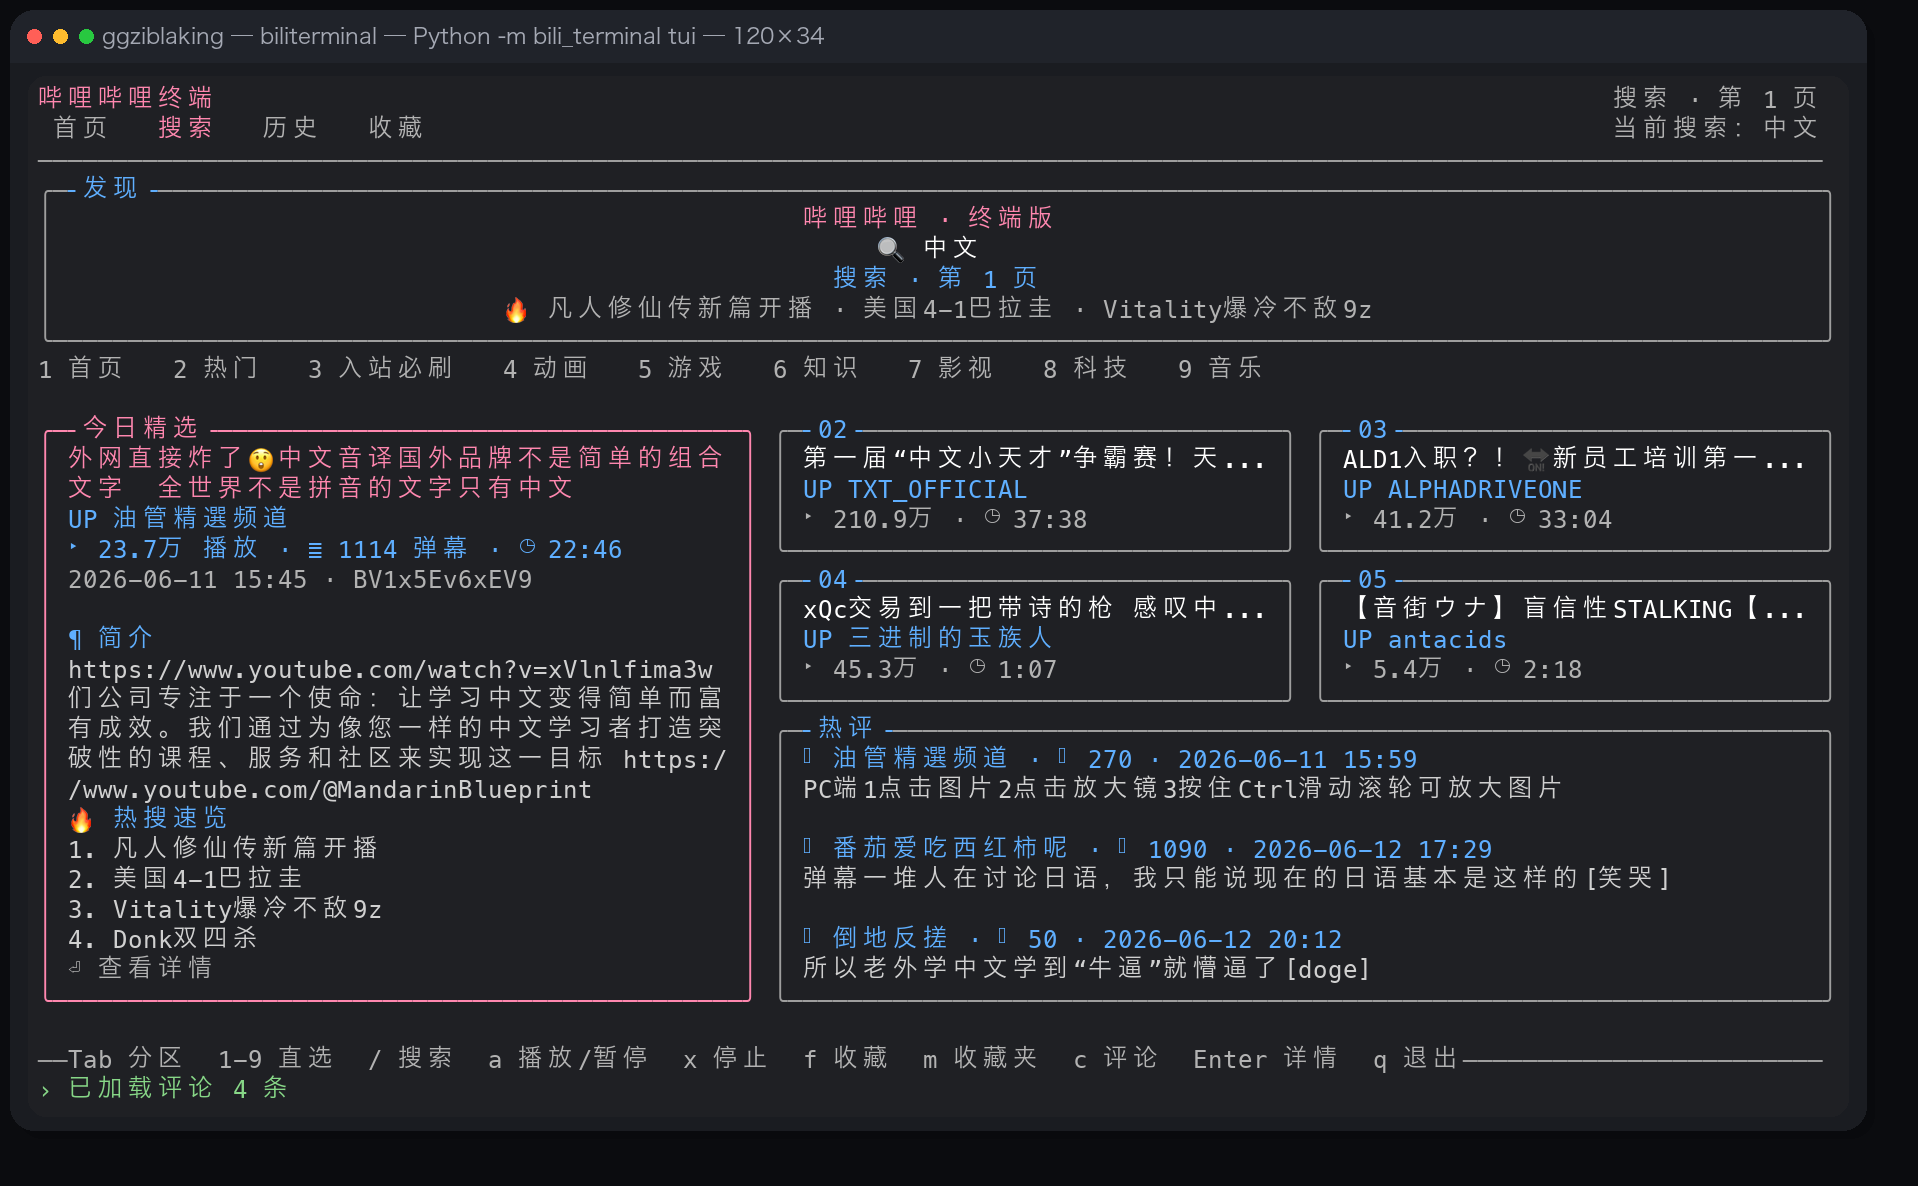
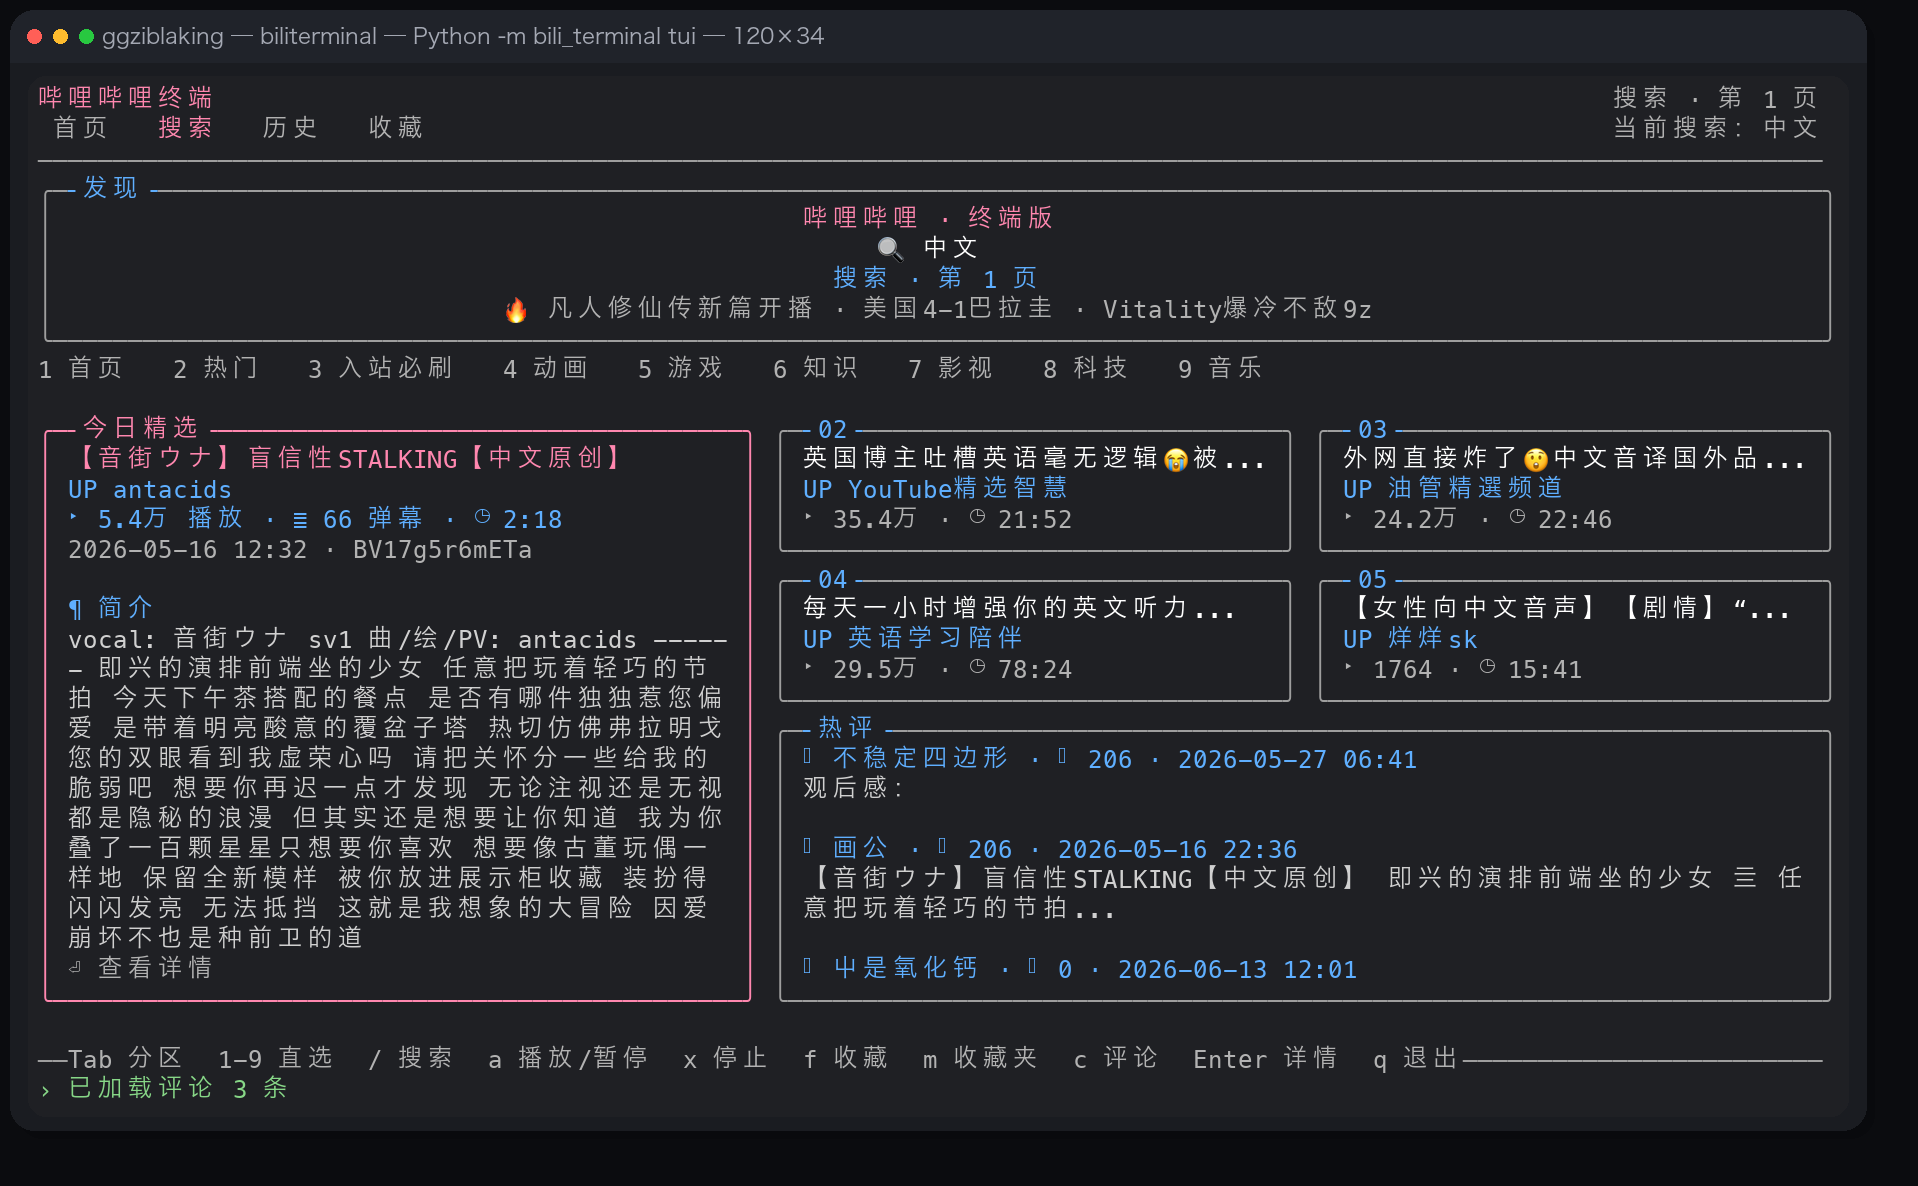
用 curses ACS 框线彻底修复 Ghostty 下框线错位/散开
根因（经多方调研确认，high confidence）：框线字符 ─│╭╮╰╯ 的
east_asian_width 全是 Ambiguous，Ghostty 默认 grapheme-width-method
=unicode 把它们按 2 格渲染，而 curses 内部用 wcwidth 按 1 格定位光标，
一整条横线在 Ghostty 里宽度翻倍把整个框撑散。自带终端用 wcwidth(=1)
与 curses 一致故正常。这是终端侧渲染策略差异，程序内改 locale/wcwidth
无法解决。

修复：draw_box 及所有分隔线改用 curses ACS 备用字符集
（ACS_ULCORNER/HLINE/VLINE 等 + hline()/vline()）。ACS 走 VT100
ESC(0 路径，终端按内建图形字符渲染、必占 1 格，完全绕过 Unicode 歧义
宽度，对所有终端都正确，无需检测终端或改用户配置。代价是直角而非圆角。

截图工具适配：tmux 文本 capture 读不到 ACS（显示成 q/x/l 字母），故加
BILITERMINAL_UNICODE_BORDERS 开关，让截图生成器改用 Unicode 圆角框线
（其自带解析器按单宽渲染正常），生成器已设置该环境变量。

测试 fake 屏幕补充 addch/hline/vline 与 ACS 常量 patch。

diff --git a/bili_terminal/tests/test_bilibili_cli.py b/bili_terminal/tests/test_bilibili_cli.py
@@ -1260,6 +1260,8 @@ class TUIStateTests(unittest.TestCase):
             self.assertEqual(tui.mode_token(), "收藏夹")
 
     def test_draw_featured_card_compact_marks_favorite(self) -> None:
+        import curses
+
         class FakeScreen:
             def __init__(self) -> None:
                 self.lines: list[str] = []
@@ -1268,6 +1270,15 @@ class TUIStateTests(unittest.TestCase):
                 return self
 
             def box(self) -> None:
+                return None
+
+            def addch(self, *_args, **_kwargs) -> None:
+                return None
+
+            def hline(self, *_args, **_kwargs) -> None:
+                return None
+
+            def vline(self, *_args, **_kwargs) -> None:
                 return None
 
             def addnstr(self, _y: int, _x: int, text: str, *_args) -> None:
@@ -1282,7 +1293,13 @@ class TUIStateTests(unittest.TestCase):
             store.add_favorite(item)
             tui = cli.BilibiliTUI(cli.BilibiliClient(), store)
             fake = FakeScreen()
-            tui.draw_featured_card(fake, 0, 0, 8, 40, item, selected=False)
+            with mock.patch.object(curses, "ACS_HLINE", "-", create=True), \
+                 mock.patch.object(curses, "ACS_VLINE", "|", create=True), \
+                 mock.patch.object(curses, "ACS_ULCORNER", "+", create=True), \
+                 mock.patch.object(curses, "ACS_URCORNER", "+", create=True), \
+                 mock.patch.object(curses, "ACS_LLCORNER", "+", create=True), \
+                 mock.patch.object(curses, "ACS_LRCORNER", "+", create=True):
+                tui.draw_featured_card(fake, 0, 0, 8, 40, item, selected=False)
             rendered = " ".join(fake.lines)
             self.assertIn("✦ 收藏卡片", rendered)
 
@@ -1317,9 +1334,20 @@ class TUIStateTests(unittest.TestCase):
             tui.draw_split_view.assert_not_called()
 
     def test_draw_favorites_list_renders_empty_hint(self) -> None:
+        import curses
+
         class FakeScreen:
             def __init__(self) -> None:
                 self.lines: list[str] = []
+
+            def addch(self, *_args, **_kwargs) -> None:
+                return None
+
+            def hline(self, *_args, **_kwargs) -> None:
+                return None
+
+            def vline(self, *_args, **_kwargs) -> None:
+                return None
 
             def addnstr(self, _y: int, _x: int, text: str, *_args) -> None:
                 self.lines.append(text)
@@ -1328,7 +1356,13 @@ class TUIStateTests(unittest.TestCase):
             store = cli.HistoryStore(path=f"{temp_dir}/history.json")
             tui = cli.BilibiliTUI(cli.BilibiliClient(), store)
             fake = FakeScreen()
-            tui.draw_favorites_list(fake, 0, 0, 10, 42)
+            with mock.patch.object(curses, "ACS_HLINE", "-", create=True), \
+                 mock.patch.object(curses, "ACS_VLINE", "|", create=True), \
+                 mock.patch.object(curses, "ACS_ULCORNER", "+", create=True), \
+                 mock.patch.object(curses, "ACS_URCORNER", "+", create=True), \
+                 mock.patch.object(curses, "ACS_LLCORNER", "+", create=True), \
+                 mock.patch.object(curses, "ACS_LRCORNER", "+", create=True):
+                tui.draw_favorites_list(fake, 0, 0, 10, 42)
             rendered = " ".join(fake.lines)
             self.assertIn("收藏夹还是空的", rendered)
             self.assertIn("按 f", rendered)
@@ -1362,6 +1396,8 @@ class TUIStateTests(unittest.TestCase):
             tui.draw_comments_panel.assert_called_once()
 
     def test_draw_comments_panel_renders_error_hint(self) -> None:
+        import curses
+
         class FakeWindow:
             def __init__(self) -> None:
                 self.lines: list[str] = []
@@ -1370,6 +1406,15 @@ class TUIStateTests(unittest.TestCase):
                 return self
 
             def box(self) -> None:
+                return None
+
+            def addch(self, *_args, **_kwargs) -> None:
+                return None
+
+            def hline(self, *_args, **_kwargs) -> None:
+                return None
+
+            def vline(self, *_args, **_kwargs) -> None:
                 return None
 
             def addnstr(self, _y: int, _x: int, text: str, *_args) -> None:
@@ -1382,12 +1427,20 @@ class TUIStateTests(unittest.TestCase):
             tui.items = [item]
             tui.comment_errors[item.bvid or str(item.aid)] = "评论接口受限，请按 o 在浏览器中查看"
             fake = FakeWindow()
-            tui.draw_comments_panel(fake, 0, 0, 8, 42)
+            with mock.patch.object(curses, "ACS_HLINE", "-", create=True), \
+                 mock.patch.object(curses, "ACS_VLINE", "|", create=True), \
+                 mock.patch.object(curses, "ACS_ULCORNER", "+", create=True), \
+                 mock.patch.object(curses, "ACS_URCORNER", "+", create=True), \
+                 mock.patch.object(curses, "ACS_LLCORNER", "+", create=True), \
+                 mock.patch.object(curses, "ACS_LRCORNER", "+", create=True):
+                tui.draw_comments_panel(fake, 0, 0, 8, 42)
             rendered = " ".join(fake.lines)
             self.assertIn("评论加载失败", rendered)
             self.assertIn("浏览器", rendered)
 
     def test_draw_comments_panel_renders_empty_loaded_state(self) -> None:
+        import curses
+
         class FakeWindow:
             def __init__(self) -> None:
                 self.lines: list[str] = []
@@ -1396,6 +1449,15 @@ class TUIStateTests(unittest.TestCase):
                 return self
 
             def box(self) -> None:
+                return None
+
+            def addch(self, *_args, **_kwargs) -> None:
+                return None
+
+            def hline(self, *_args, **_kwargs) -> None:
+                return None
+
+            def vline(self, *_args, **_kwargs) -> None:
                 return None
 
             def addnstr(self, _y: int, _x: int, text: str, *_args) -> None:
@@ -1410,7 +1472,13 @@ class TUIStateTests(unittest.TestCase):
             tui.comment_cache[key] = []
             tui.comment_loaded.add(key)
             fake = FakeWindow()
-            tui.draw_comments_panel(fake, 0, 0, 8, 42)
+            with mock.patch.object(curses, "ACS_HLINE", "-", create=True), \
+                 mock.patch.object(curses, "ACS_VLINE", "|", create=True), \
+                 mock.patch.object(curses, "ACS_ULCORNER", "+", create=True), \
+                 mock.patch.object(curses, "ACS_URCORNER", "+", create=True), \
+                 mock.patch.object(curses, "ACS_LLCORNER", "+", create=True), \
+                 mock.patch.object(curses, "ACS_LRCORNER", "+", create=True):
+                tui.draw_comments_panel(fake, 0, 0, 8, 42)
             rendered = " ".join(fake.lines)
             self.assertIn("暂无可显示热评", rendered)
 

diff --git a/bili_terminal/tui.py b/bili_terminal/tui.py
@@ -1,5 +1,6 @@
 from __future__ import annotations
 
+import os
 import queue
 import threading
 import webbrowser
@@ -24,6 +25,12 @@ TICK_MS = 100
 STATUS_TTL_TICKS = 120
 COMMENT_DEBOUNCE_TICKS = 4
 SPINNER_FRAMES = "⠋⠙⠹⠸⠼⠴⠦⠧⠇⠏"
+
+# 框线默认走 curses ACS 备用字符集（VT100 line-drawing），终端按内建图形渲染、
+# 必占 1 格，绕过 Unicode 歧义宽度，避免 Ghostty 等终端把框撑散。
+# 截图工具通过 tmux 文本 capture 取像，读不到 ACS（会显示成 q/x/l 等字母），
+# 故提供该开关让其改用 Unicode 圆角框线（生成器自己的解析器按单宽渲染，正常）。
+USE_UNICODE_BORDERS = os.environ.get("BILITERMINAL_UNICODE_BORDERS") == "1"
 
 HOME_CHANNELS: list[dict[str, Any]] = [
     {"label": "首页", "source": "recommend"},
@@ -816,7 +823,7 @@ class BilibiliTUI:
         lines = [
             "帮助",
             "",
-            "── 列表视图 ──",
+            "╌╌ 列表视图 ╌╌",
             "j / k, ↑ / ↓   移动选中项（自动加载热评）",
             "Enter          打开详情页",
             "Esc / b        返回上一个列表",
@@ -831,12 +838,12 @@ class BilibiliTUI:
             "d              使用默认搜索词搜索",
             "r              刷新当前页",
             "",
-            "── 详情视图 ──",
+            "╌╌ 详情视图 ╌╌",
             "j / k          滚动，PgUp/PgDn 翻页",
             "r / c          刷新详情评论",
             "Esc / b        返回列表",
             "",
-            "── 通用 ──",
+            "╌╌ 通用 ╌╌",
             "f 收藏  a 播放/暂停音频  x 停止音频",
             "o 浏览器打开  c 加载评论  ? 帮助  q 退出",
             "",
@@ -855,7 +862,7 @@ class BilibiliTUI:
         for index, line in enumerate(lines[: box_height - 2], start=1):
             if index == 1:
                 attr = self.attr("brand")
-            elif line.startswith("──"):
+            elif line.startswith("╌╌"):
                 attr = self.attr("section")
             elif line.startswith("最近搜索"):
                 attr = self.attr("muted")
@@ -865,6 +872,20 @@ class BilibiliTUI:
                 win.addnstr(index, 2, line, box_width - 4, attr)
             except curses.error:
                 pass
+
+    def _hline(self, stdscr: Any, y: int, x: int, width: int, attr: int) -> None:
+        """画一条水平分隔线，默认走 ACS（避免歧义宽度错位），截图模式用 Unicode。"""
+        import curses
+
+        if width <= 0:
+            return
+        try:
+            if USE_UNICODE_BORDERS:
+                stdscr.addnstr(y, x, "─" * width, width, attr)
+            else:
+                stdscr.hline(y, x, curses.ACS_HLINE, width, attr)
+        except curses.error:
+            pass
 
     def draw_box(
         self,
@@ -884,19 +905,36 @@ class BilibiliTUI:
             return
 
         border_attr = self.attr("accent") if selected else self.attr("border")
-        top = "╭" + "─" * (width - 2) + "╮"
-        bottom = "╰" + "─" * (width - 2) + "╯"
 
         try:
-            stdscr.addnstr(y, x, top, width, border_attr)
-            for i in range(1, height - 1):
-                stdscr.addnstr(y + i, x, "│", 1, border_attr)
-                stdscr.addnstr(y + i, x + width - 1, "│", 1, border_attr)
-            stdscr.addnstr(y + height - 1, x, bottom, width, border_attr)
+            if USE_UNICODE_BORDERS:
+                # 仅供截图工具：用 Unicode 圆角框线（生成器解析器按单宽渲染，正常）
+                top = "╭" + "─" * (width - 2) + "╮"
+                bottom = "╰" + "─" * (width - 2) + "╯"
+                stdscr.addnstr(y, x, top, width, border_attr)
+                for i in range(1, height - 1):
+                    stdscr.addnstr(y + i, x, "│", 1, border_attr)
+                    stdscr.addnstr(y + i, x + width - 1, "│", 1, border_attr)
+                stdscr.addnstr(y + height - 1, x, bottom, width, border_attr)
+            else:
+                # 默认：curses ACS 备用字符集（VT100 line-drawing），走 ESC(0 路径，
+                # 终端按内建图形字符渲染、必定占 1 格，完全绕过 Unicode 歧义宽度，
+                # Ghostty 等把歧义宽度按双宽渲染的终端不会再把框线撑散/错位。
+                stdscr.addch(y, x, curses.ACS_ULCORNER, border_attr)
+                stdscr.addch(y, x + width - 1, curses.ACS_URCORNER, border_attr)
+                stdscr.addch(y + height - 1, x, curses.ACS_LLCORNER, border_attr)
+                stdscr.addch(y + height - 1, x + width - 1, curses.ACS_LRCORNER, border_attr)
+                if width > 2:
+                    stdscr.hline(y, x + 1, curses.ACS_HLINE, width - 2, border_attr)
+                    stdscr.hline(y + height - 1, x + 1, curses.ACS_HLINE, width - 2, border_attr)
+                if height > 2:
+                    stdscr.vline(y + 1, x, curses.ACS_VLINE, height - 2, border_attr)
+                    stdscr.vline(y + 1, x + width - 1, curses.ACS_VLINE, height - 2, border_attr)
         except curses.error:
             pass
 
         if label:
+            # 标签连接符 ╴╶ 是明确单宽（EAW=N），各终端一致，可安全保留
             label_text = f"╴{label}╶"
             if label_attr is not None:
                 resolved_label_attr = label_attr
@@ -1190,6 +1228,8 @@ class BilibiliTUI:
             stdscr.addnstr(start_y + offset, start_x, line, width, attr)
 
     def draw_favorites_list(self, stdscr: Any, y: int, x: int, height: int, width: int) -> None:
+        import curses
+
         label = f"收藏列表 ⋅ {len(self.items)}"
         self.draw_box(stdscr, y, x, height, width, label)
         if height < 4:
@@ -1222,7 +1262,7 @@ class BilibiliTUI:
                 cursor += 1
 
             if cursor < y + height - 1:
-                stdscr.addnstr(cursor, x + 2, "┄" * max(1, min(width - 4, width - 4)), width - 4, self.attr("border"))
+                self._hline(stdscr, cursor, x + 2, max(1, width - 4), self.attr("border"))
                 cursor += 1
 
     def draw_favorites_view(self, stdscr: Any, height: int, width: int) -> None:
@@ -1311,9 +1351,11 @@ class BilibiliTUI:
             stdscr.addnstr(y, hint_x, hint, width - hint_x - 1, hint_attr)
 
     def draw_split_view(self, stdscr: Any, height: int, width: int) -> None:
+        import curses
+
         self._draw_top_bar(stdscr, width, "哔哩哔哩终端", f"{self.mode_token()} ⋅ 第 {self.page} 页")
         self._draw_tab_row(stdscr, 1, width)
-        stdscr.addnstr(2, 0, "─" * max(1, width - 1), width - 1, self.attr("border"))
+        self._hline(stdscr, 2, 0, max(1, width - 1), self.attr("border"))
 
         banner_height = self.draw_banner(stdscr, 3, width)
         chips_height = self.draw_category_row(stdscr, 3 + banner_height, width)
@@ -1410,7 +1452,7 @@ class BilibiliTUI:
             else:
                 self.draw_split_view(stdscr, height, width)
 
-            stdscr.addnstr(height - 2, 0, "─" * max(1, width - 1), width - 1, self.attr("border"))
+            self._hline(stdscr, height - 2, 0, max(1, width - 1), self.attr("border"))
             if self.detail_mode:
                 shortcuts = "j/k 滚动  a 播放/暂停  x 停止  f 收藏  o 浏览器打开  r/c 刷新评论  b 返回  q 退出"
             elif self.mode == "favorites":

diff --git a/bili_terminal/generate_readme_screenshots.py b/bili_terminal/generate_readme_screenshots.py
@@ -174,7 +174,9 @@ def try_kill_session(session: str) -> None:
 
 def capture_scenario(scenario: Scenario) -> str:
     try_kill_session(scenario.session)
-    command = f"cd {ROOT} && python3 -m bili_terminal tui"
+    # tmux 文本 capture 读不到 curses ACS 框线（会变成 q/x/l 字母），
+    # 故让被截图的 TUI 改用 Unicode 圆角框线，本生成器的解析器按单宽渲染正常
+    command = f"cd {ROOT} && BILITERMINAL_UNICODE_BORDERS=1 python3 -m bili_terminal tui"
     run_tmux(
         "new-session",
         "-d",